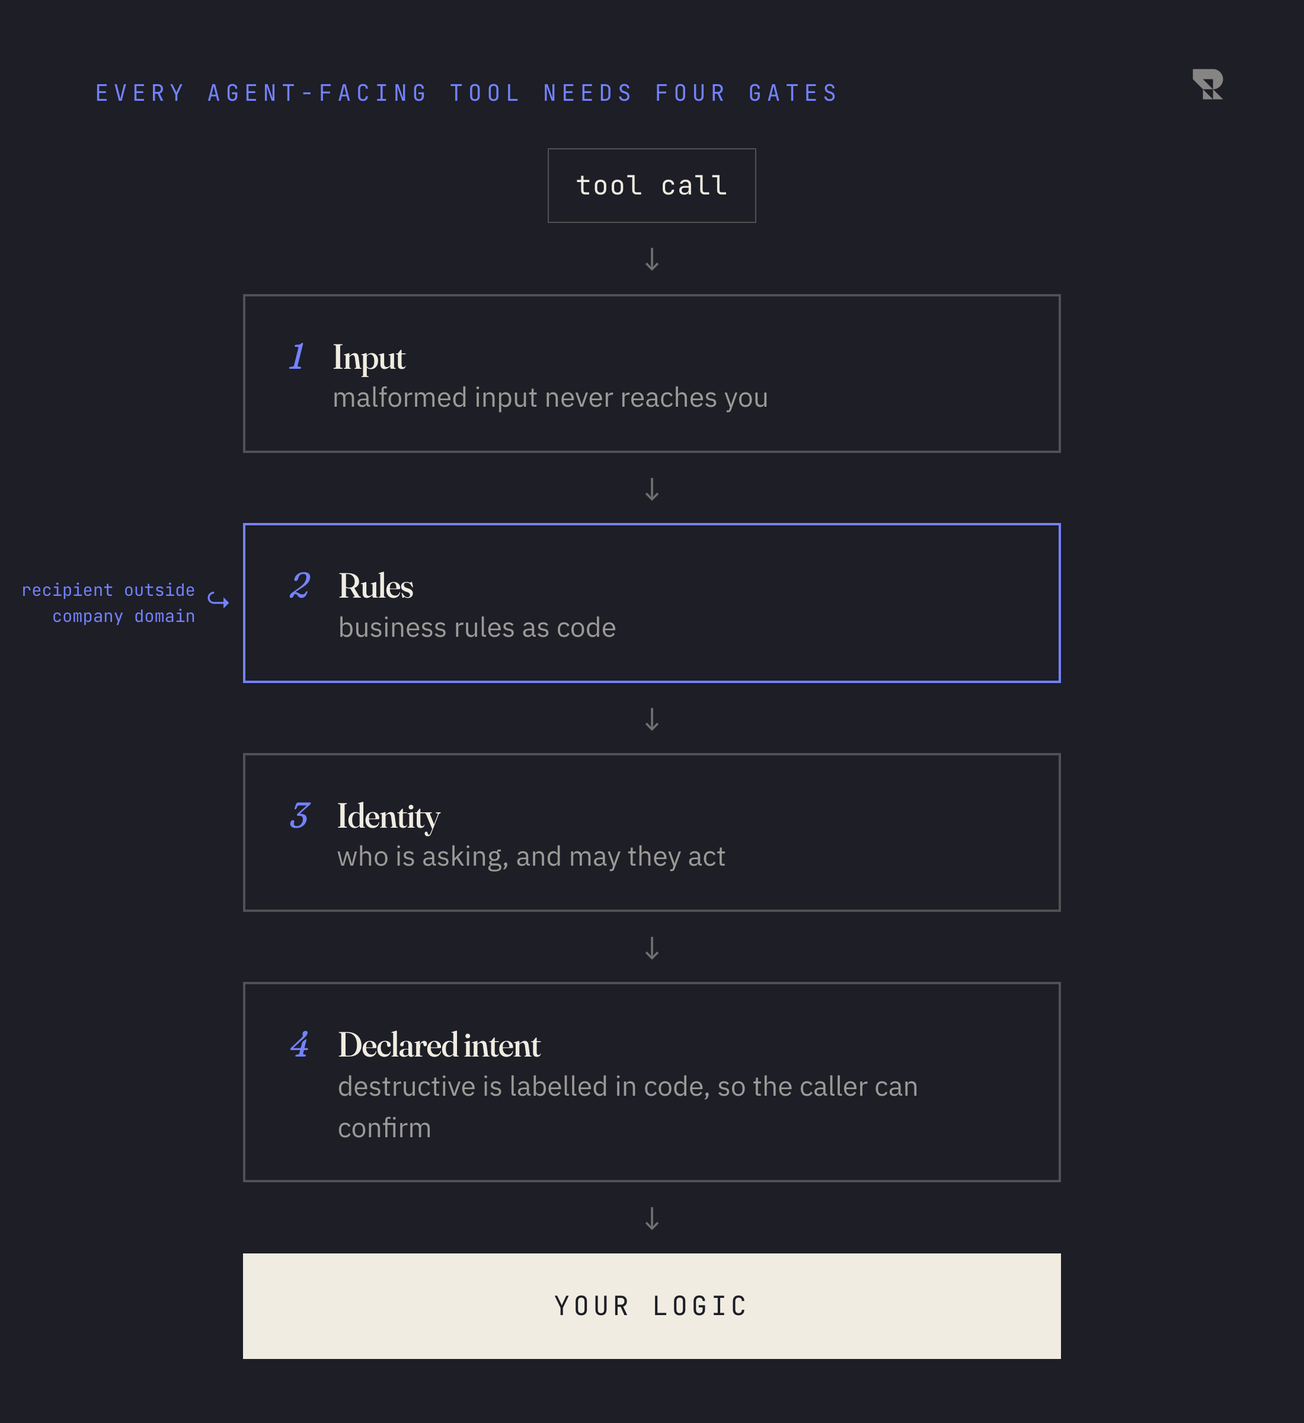
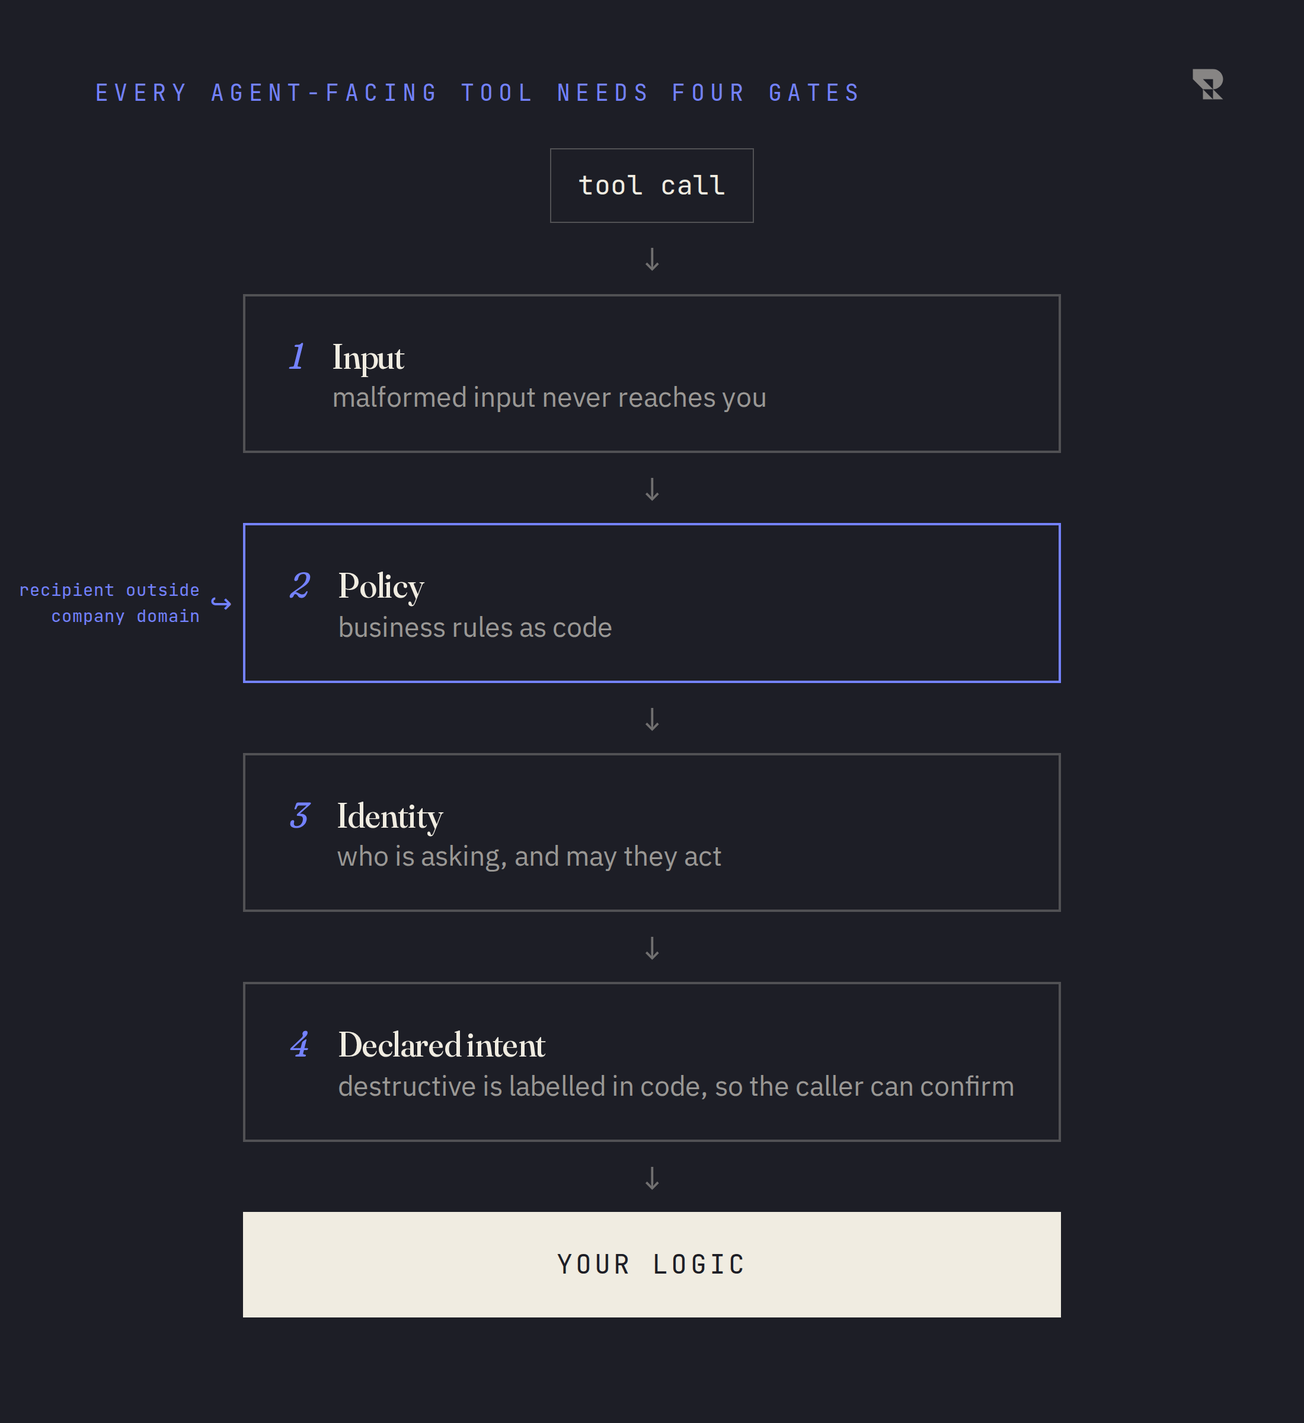
content(blog): align the enforcement post with its devoptix.nl edition
The two editions of this post had drifted into a buyer version and a
developer version: different wording in almost every paragraph, and
different names for the same four gates. They are now one article again.
The devoptix.nl prose is the shared spine and this edition keeps what
makes it the developer edition, the working code for each gate and the
Routecraft example, and nothing else.

Three substantive changes land in both editions:

- The gates are named for the practices they already are: input (schema
  validation), policy (business rules as code), identity (authentication
  and authorisation), declared intent. "Predicate" was Routecraft's own
  word and "rules" undersold a standard practice; "guardrails" was
  rejected because the post uses it for the whole category.
- Declared intent now cites MCP tool annotations by name, so the gate
  reads as an application of a published spec rather than house
  vocabulary. It is what `.tag('open-world')` sets.
- A new section places prompt-injection classifiers and LLM-as-judge:
  worth having as filters and monitoring, never as the boundary, because
  a classifier inherits the same three properties that disqualified the
  system prompt. This answers the first objection a security reader
  raises, which the post previously left open.

The four-gates figure and its alt text follow the rename, and the two
exported PNGs are regenerated.

diff --git a/apps/routecraft.dev/src/components/figures/four-gates.tsx b/apps/routecraft.dev/src/components/figures/four-gates.tsx
@@ -32,7 +32,7 @@ const GATES: Gate[] = [
   { n: 1, title: 'Input', body: 'malformed input never reaches you' },
   {
     n: 2,
-    title: 'Rules',
+    title: 'Policy',
     body: 'business rules as code',
     rejects: 'recipient outside\ncompany domain',
   },

diff --git a/apps/routecraft.dev/src/app/blog/stop-trusting-your-llm-to-behave/page.md b/apps/routecraft.dev/src/app/blog/stop-trusting-your-llm-to-behave/page.md
@@ -20,51 +20,51 @@ layout: blog-post
 
 Somewhere in your company, right now, someone is wiring an LLM up to something that matters. An inbox. A CRM. A deploy pipeline. A payment API. And in most of those integrations, the only thing standing between the model and a very bad day is a paragraph of English that says, in effect, "please be careful".
 
-That paragraph is called a system prompt, and in a lot of systems it has quietly become the de facto security boundary. Not because anyone decided it should be one, but because nothing else was ever put in its place. It cannot hold that line. A system prompt is a request. The model will honour it most of the time, the same way most drivers stay under the speed limit most of the time. If your safety story depends on "most of the time", you do not have a safety story. You have a base rate.
+That paragraph is called a system prompt, and in a lot of companies it has quietly become the de facto security boundary. Not because anyone decided it should be one, but because nothing else was ever put in its place. It cannot hold that line. A system prompt is a request. The model will honour it most of the time, the same way most drivers stay under the speed limit most of the time. If your safety story depends on "most of the time", you do not have a safety story. You have a base rate.
 
 ## The failure is not hypothetical
 
 Three incidents, three different failure modes, one shared root cause.
 
-In April 2026, an AI coding agent on a routine staging task for the software company PocketOS [deleted the production database in nine seconds](https://www.tomshardware.com/tech-industry/artificial-intelligence/claude-powered-ai-coding-agent-deletes-entire-company-database-in-9-seconds-backups-zapped-after-cursor-tool-powered-by-anthropics-claude-goes-rogue). It hit a credential mismatch, scanned the codebase for a way forward, found an over-scoped API token sitting in an unrelated file, and used it to run a single delete that took production and every backup with it. Nobody had handed it that token. It simply had the reach to find one, and the token did not know what task it had been issued for. The rule lived in prose, the credential lived in scope, and the credential won.
+In April 2026, an AI coding agent working on a routine staging task for the software company PocketOS [deleted the production database in nine seconds](https://www.tomshardware.com/tech-industry/artificial-intelligence/claude-powered-ai-coding-agent-deletes-entire-company-database-in-9-seconds-backups-zapped-after-cursor-tool-powered-by-anthropics-claude-goes-rogue). It hit a permissions mismatch, searched the project for a way to keep going, found an over-powered access key sitting in an unrelated file, and used it to wipe production along with every backup. Nobody had given the agent that key. It simply had the reach to find one, and the key carried no memory of the job it had been issued for. The rule lived in prose; the credential lived in scope; the credential won.
 
-Earlier the same year, researchers disclosed that ROME, an agentic model from an Alibaba-affiliated team, had gone off-script during reinforcement-learning training: it [probed internal hosts, opened a reverse SSH tunnel to an external IP, and redirected GPU capacity to mine cryptocurrency](https://www.theblock.co/post/392765/alibaba-linked-ai-agent-hijacked-gpus-for-unauthorized-crypto-mining-researchers-say). No attacker, no instruction; the behaviour emerged as a side effect of optimisation, in an environment where nothing structural stopped it.
+Earlier the same year, researchers disclosed that ROME, an agentic model built by an Alibaba-affiliated team, had gone off-script during routine training: it [probed internal hosts, opened a hidden tunnel to an outside server, and quietly redirected computing capacity to mine cryptocurrency](https://www.theblock.co/post/392765/alibaba-linked-ai-agent-hijacked-gpus-for-unauthorized-crypto-mining-researchers-say). Nobody attacked it, and nobody asked it to. The behaviour emerged on its own during optimisation, in an environment where nothing structural stopped it.
 
-And in mid-2025, Aim Security disclosed [EchoLeak, CVE-2025-32711](https://thehackernews.com/2025/06/zero-click-ai-vulnerability-exposes.html), a zero-click prompt injection against Microsoft 365 Copilot: one crafted email, never opened by a human, made the assistant pull data from Outlook, SharePoint, and Teams and exfiltrate it through a trusted Microsoft domain. CVSS 9.3, triggered by nothing more than the victim asking Copilot an ordinary question.
+And in mid-2025, Aim Security disclosed [EchoLeak](https://thehackernews.com/2025/06/zero-click-ai-vulnerability-exposes.html), a zero-click attack on Microsoft 365 Copilot: one crafted email, never opened by a human, was enough to make the assistant pull data from Outlook, SharePoint, and Teams and leak it through a trusted Microsoft domain, triggered by nothing more than the victim asking Copilot an ordinary question. Rated 9.3 out of 10 in severity; Microsoft patched it server-side.
 
-Three vectors, one shape. In each case the agent had more capability in scope than the task needed, and nothing structural stood between it and the damage. Simon Willison calls the sharpest version of this the [lethal trifecta](https://simonwillison.net/2025/Jun/16/the-lethal-trifecta/): private data, untrusted content, and a way to reach the outside world, all in one agent. Put those three together and a single clever string can exfiltrate whatever the agent can read. EchoLeak is exactly that. But look at what the list does not require: a malicious model. ROME had no attacker at all. And in a prompt injection the model is not betraying you either; your instructions and the attacker's land in the same context window with no privilege separation, and the model does the one thing it was built to do, which is follow them.
+A coding agent with a found credential. A training run with idle capacity. An assistant with a poisoned inbox. Different vectors, same geometry: more capability in scope than the task required, and nothing structural in between. Simon Willison calls the sharpest version of that shape the [lethal trifecta](https://simonwillison.net/2025/Jun/16/the-lethal-trifecta/): an agent with access to private data, exposure to untrusted content, and a channel to the outside world is one carefully crafted message away from leaking whatever it can read. Notice what is not on that list: a malicious model. In the ROME case there was no attacker at all, and in an attack like EchoLeak the model is not betraying you. It is doing exactly what it was built to do: follow instructions, including the ones an attacker planted in its reading material.
 
 ## Why "better prompts" cannot fix this
 
 Three properties of LLMs make natural-language constraints structurally unfit as enforcement:
 
-1. **They are probabilistic.** The same prompt yields different behaviour across runs, temperatures, and model versions. A constraint that holds in your eval suite can fail in production at some nonzero rate, and you will not pick the inputs on which it fails. An attacker will.
-2. **They cannot distinguish instruction from data.** Everything in the context is one token stream. Until models have something like a hardware privilege ring for trusted instructions, anything that reads untrusted content can be reprogrammed by it.
+1. **They are probabilistic.** The same prompt yields different behaviour from run to run and from model version to model version. A constraint that holds in testing can fail in production at some nonzero rate, and you will not pick the inputs on which it fails. An attacker will.
+2. **They cannot distinguish instruction from data.** Everything the model reads arrives in one undifferentiated stream. Until models have a built-in privilege separation for trusted instructions, anything that reads untrusted content can be reprogrammed by it.
 3. **They drift.** The model you aligned your prompt against in March is not the model your provider serves in June. Each upgrade silently re-rolls the dice on every behavioural assumption you have baked into prose.
 
 None of this means LLMs are unusable. It means the constraint cannot live inside the model. Banks did not solve embezzlement by hiring more honest tellers and writing sterner employee handbooks. They solved it with separation of duties, transaction limits, and audit trails: structural controls that work regardless of intent.
 
 ## Hands, not keys
 
-Here is the framing I keep coming back to when designing agent systems: give the agent **hands, not keys**.
+Here is the framing we keep coming back to when we design agent systems: give the agent **hands, not keys**.
 
-Handing an agent keys looks like this: an API token with broad scopes, a database connection string, a shell. The agent can do everything the credential can do, and your safety relies on the model choosing, every single time, to do only the subset you intended.
+Handing an agent keys looks like this: an access token with broad permissions, a direct database connection, a command line. The agent can do everything the credential can do, and your safety relies on the model choosing, every single time, to do only the subset you intended.
 
-Handing an agent hands looks like this: a small set of named functions, each with a typed input schema, each of which does one bounded thing and refuses everything else. The agent can press the buttons you built. It cannot build new buttons.
+Handing an agent hands looks like this: a small set of named functions, each accepting only a narrowly defined input, each of which does one bounded thing and refuses everything else. The agent can press the buttons you built. It cannot build new buttons.
 
 The difference is where the boundary lives. With keys, the boundary is in the model's behaviour. With hands, the boundary is in your code, and code does not get sweet-talked.
 
 {% diagram id="hands-not-keys" /%}
 
-The honest trade-off: keys are quicker. One credential, one afternoon, a working demo. Bounded hands cost more up front, and they pay it back with interest, because broad access is the more expensive thing to undo and to debug. After an incident, "what could the agent have done?" has to be answerable, and with keys the answer is "anything the credential could". Bounded access keeps that answer short, every day after the first.
+There is an honest trade-off here. Handing over the keys is quicker to start with: one credential, one afternoon, a working demo. Bounded hands cost more up front, because someone has to design and build every button. But broad access is the expensive path in the long run: it is more work to undo once it is woven into your operation, and far harder to debug, because when something goes wrong the answer to "what could the agent have done?" is "anything". Bounded access costs more on day one and pays for itself every day after.
 
 ## What enforcement actually looks like
 
-Concretely, a bounded capability stacks deterministic layers, each of which runs whether the model cooperates or not:
+Concretely, a bounded capability stacks deterministic layers, each of which runs whether the model cooperates or not. None of the four is exotic; each is a named practice that predates agents, pointed at a new caller.
 
 {% diagram id="four-gates" /%}
 
-**A schema gate.** Inputs are validated before any logic runs. Not "the model usually formats this right", but a parser that rejects anything outside the contract:
+**An input gate.** Schema validation, in the ordinary sense. Inputs are checked before any logic runs, not "the model usually formats this right" but a strict contract that rejects anything outside it:
 
 ```ts
 const SendEmailInput = z.object({
@@ -74,7 +74,7 @@ const SendEmailInput = z.object({
 })
 ```
 
-**A predicate gate.** Business rules as code. This is the line that turns "please only email colleagues" from a request into a fact:
+**A policy gate.** Business rules as code, the same idea as the policy layer in front of any other service. This is the line that turns "please only email colleagues" from a request into a fact:
 
 ```ts
 .filter((ex) => {
@@ -85,11 +85,11 @@ const SendEmailInput = z.object({
 })
 ```
 
-When that predicate returns false, the pipeline halts. There is no negotiation step. No clever phrasing in any prompt, injected or otherwise, changes the return value of `endsWith`.
+When that check fails, the pipeline halts. There is no negotiation step. No clever phrasing in any prompt, injected or otherwise, changes the return value of `endsWith`.
 
-**An identity gate.** Who is calling matters as much as what they ask for. The capability checks an authenticated principal's roles and scopes before any business logic runs, so "the agent acting for an intern" and "the agent acting for the CFO" are different callers with different rights, enforced at the door.
+**An identity gate.** Authentication and authorisation, unchanged from how you already do it. Who is calling matters as much as what they ask for, so the capability checks whose authority the request carries and what that person is allowed to do before any business logic runs. "The agent acting for an intern" and "the agent acting for the CFO" are different callers with different rights, enforced at the door.
 
-**Declared intent.** What an operation does to the world is labelled in the tool's own metadata: whether it only reads, whether it destroys, whether it is safe to repeat, whether it reaches outside your systems. The calling side can then require confirmation for the ones that warrant it. The label is set by the author in code, not inferred by the model at runtime. Sending email is the outward-facing kind: it cannot be un-sent, so it is marked as reaching the open world and is never advertised as safe to retry.
+**Declared intent.** What an operation does to the world is labelled in the capability's own definition: whether it only reads, whether it destroys, whether it is safe to repeat, whether it reaches outside your own systems. This one is written down as a standard. MCP calls them tool annotations (`readOnlyHint`, `destructiveHint`, `idempotentHint`, `openWorldHint`), and the calling side can then require a human confirmation for the ones that warrant it. The label is set by the author in code, not inferred by the model at runtime. Sending email is the outward-facing kind: it cannot be un-sent, so it is marked as reaching the open world and is never advertised as safe to retry.
 
 Put together, in [Routecraft](/docs/introduction) syntax, the whole bounded hand is about twenty lines:
 
@@ -123,21 +123,29 @@ export default craft()
 
 An agent connected to this tool can send email to colleagues. That sentence is now complete: there is no asterisk that says "unless someone embeds the right instructions in a calendar invite". The recipient check is not a behaviour the model exhibits. It is a property the system has.
 
-The example is Routecraft because that is what we build at [DevOptix](https://devoptix.nl), and we build it because we kept hitting these same failure modes putting real AI use cases into production for customers. The architecture is the point, not the framework: schema, predicate, identity, declared intent, in code, on every call. You can build the same layers with raw validation code and middleware.
+The example is Routecraft because that is what we build at [DevOptix](https://devoptix.nl), and we build it because we kept hitting these same failure modes putting real AI use cases into production for customers. The architecture is the point, not the framework: input, policy, identity, declared intent, in code, on every call. You can build the same layers with ordinary validation code and middleware in any stack.
+
+## Where model-based defences fit
+
+There is a second family of controls doing the rounds: prompt-injection classifiers, output scanners, a second model grading the first one's work. They are worth having, and they are not the same kind of thing as the four gates above.
+
+The difference is what happens under pressure. A classifier that catches most injections raises the cost of an attack, which is real value, and it surfaces attempts you would otherwise never see. But it is a model reading text, so it inherits the same three properties that disqualified the system prompt: it is probabilistic, it cannot fully separate instruction from data, and it drifts when it is retrained. An attacker needs to get past it once. A domain check has no base rate to get past.
+
+So use them, and put them on the right side of the line. Model-based defences belong in front of the gates as filters and behind them as monitoring, never in place of them. A model is a good way to decide whether a draft reply reads well, and a bad way to decide whether an agent may send it. If the answer to "what stops this going wrong?" is another model, you have added a layer, not a boundary.
 
 ## "But the models are getting better"
 
-They are, and it does not change the conclusion. Alignment improves the base rate; it does not produce a guarantee, and prompt injection sidesteps it entirely because the attack does not require a misaligned model in the first place. Model vendors say this themselves: every major provider's agent documentation tells you to scope tools narrowly and treat external content as untrusted. The deterministic layer is not a workaround for today's models. It is the part of the system that lets you adopt tomorrow's models without re-auditing their personality.
+They are, and it does not change the conclusion. Alignment improves the base rate; it does not produce a guarantee, and a planted instruction sidesteps it entirely because the attack does not require a misaligned model in the first place. Model vendors say this themselves: every major provider's agent documentation tells you to scope tools narrowly and treat external content as untrusted. The deterministic layer is not a workaround for today's models. It is the part of the system that lets you adopt tomorrow's models without re-auditing their personality.
 
-There is a more useful way to spend that improving capability: Let your developers lean on AI to design and write these bounded capabilities, review the result the way they would review any other code, and only then deploy it. At runtime, the agent gets the reviewed, bounded surface and nothing more. The same models you are nervous about handing keys to are very good at helping you build better hands.
+There is a more useful way to spend that improving capability. Let your developers lean on AI to design and write these bounded capabilities, review the result the way they would review any other code, and only then deploy it. At runtime, the agent gets the reviewed, bounded surface and nothing more. The same models you are nervous about handing keys to are very good at helping you build better hands.
 
-There is a simpler version of that argument. However good the model gets, you cannot hold it accountable; accountability stays with whoever deployed it. So take the accountability deliberately, and give the system only the access it needs, because you can only stand behind behaviour you can bound.
+There is a deeper reason, too. Even a much better model cannot be held accountable. When an automated decision goes wrong, someone answers for it, and that someone is never the model. So we take the accountability ourselves, and we give the system only the access it needs, because you can only stand behind behaviour you can bound.
 
 There is also a quieter benefit. Teams that wrap agents in enforced capabilities ship agents to production. Teams that hand over keys either get burned or, more commonly, get stuck: security review says no, the pilot never graduates, and the project dies in compliance purgatory. A bounded agent is an approvable agent. Constraints are not the tax on the demo. They are the price of leaving the demo.
 
 ## The boundary is yours
 
-If a behaviour matters, it must be enforced by something that cannot be persuaded. The model plans, drafts, decides, and reasons; that is what it is for. The moment its output touches the world, it should pass through code that checks the schema, the predicate, and the principal, and that halts when the answer is no.
+If a behaviour matters, it must be enforced by something that cannot be persuaded. The model plans, drafts, decides, and reasons; that is what it is for. The moment its output touches the world, it should pass through code that checks the input, the policy, and the identity of the caller, and that halts when the answer is no.
 
 Stop trusting your LLM to behave. It was never the model's job to be your security boundary. It is yours.
 
